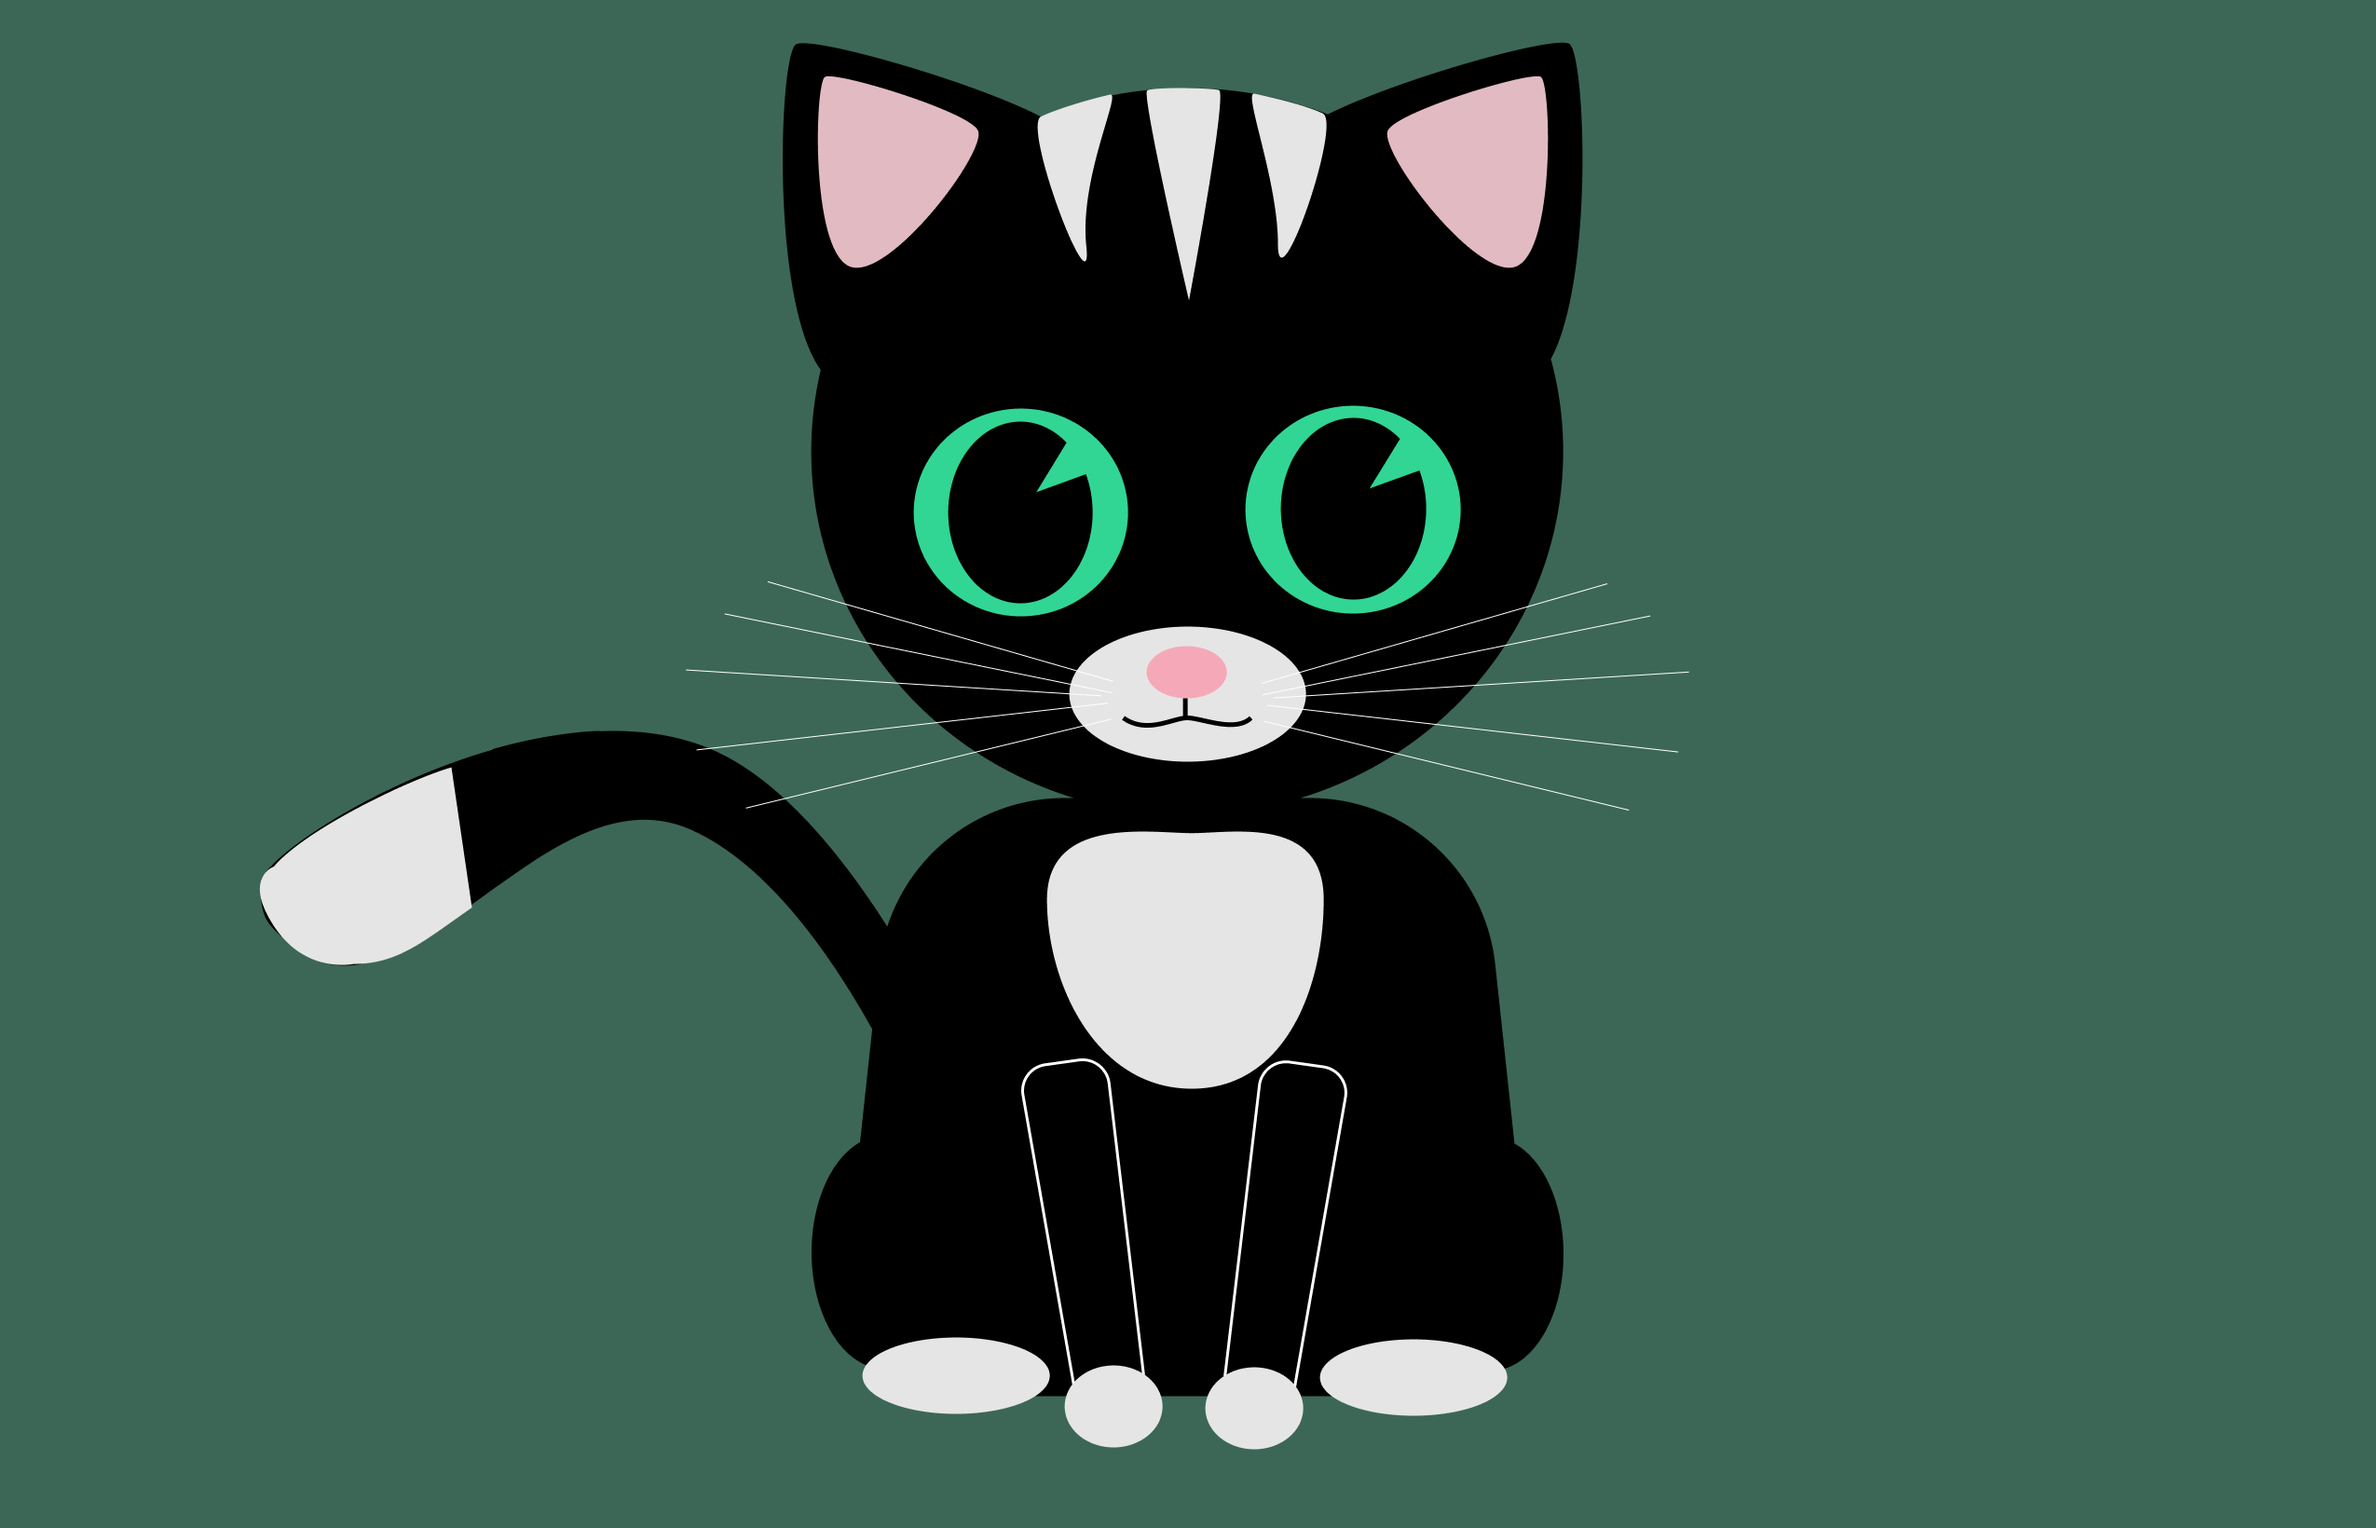
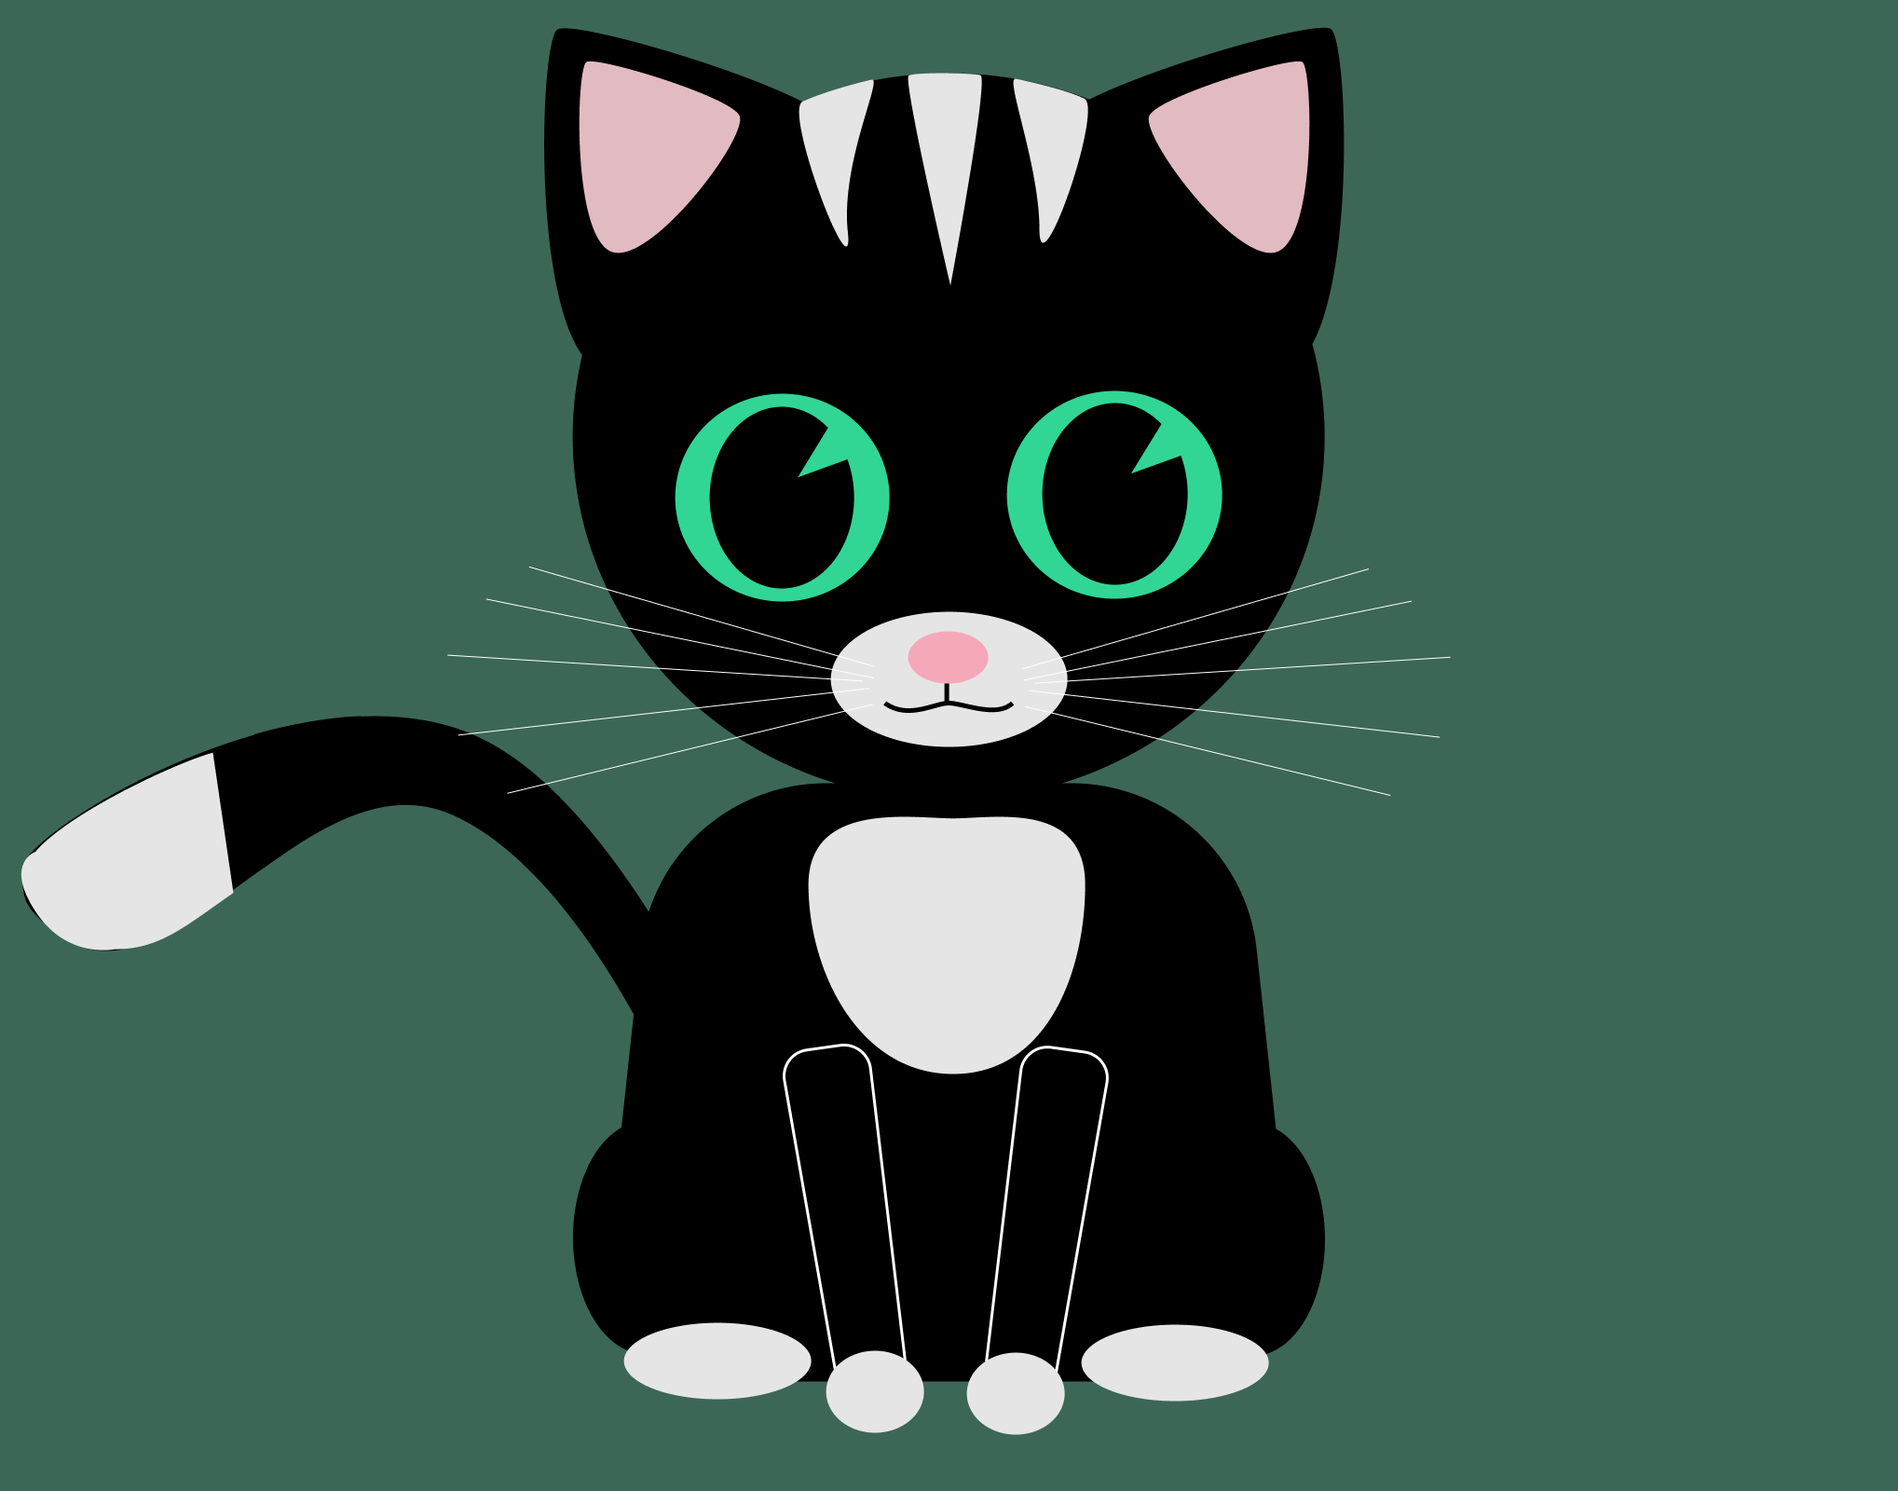
adjusted cat size

Changed region(s): [[0.0, 0.0, 0.7113, 0.9688], [0.5258, 0.8125, 0.5567, 0.8438], [0.433, 0.75, 0.4639, 0.7812]]

diff --git a/assets/css/styles.css b/assets/css/styles.css
@@ -18,8 +18,8 @@ h1 {
 
 .backgroundImage {
 	background-image: url(../img/catWithoutBowtie.png); 
-	width: 850px;
-	height: 314px; 
+	width: 670px;
+	height: 533px; 
 	margin: 64px auto;
 	background-size: cover;
 	background-position: center;  
@@ -30,8 +30,8 @@ h1 {
 .backgroundImage:hover {
 	background-image: url(../img/catWithBowtie.png);
 	cursor: crosshair; 
-	width: 850px;
-	height: 314px; 
+	width: 670px;
+	height: 533px;  
 	margin: 64px auto;
 	background-size: cover;
 	background-position: center;  
